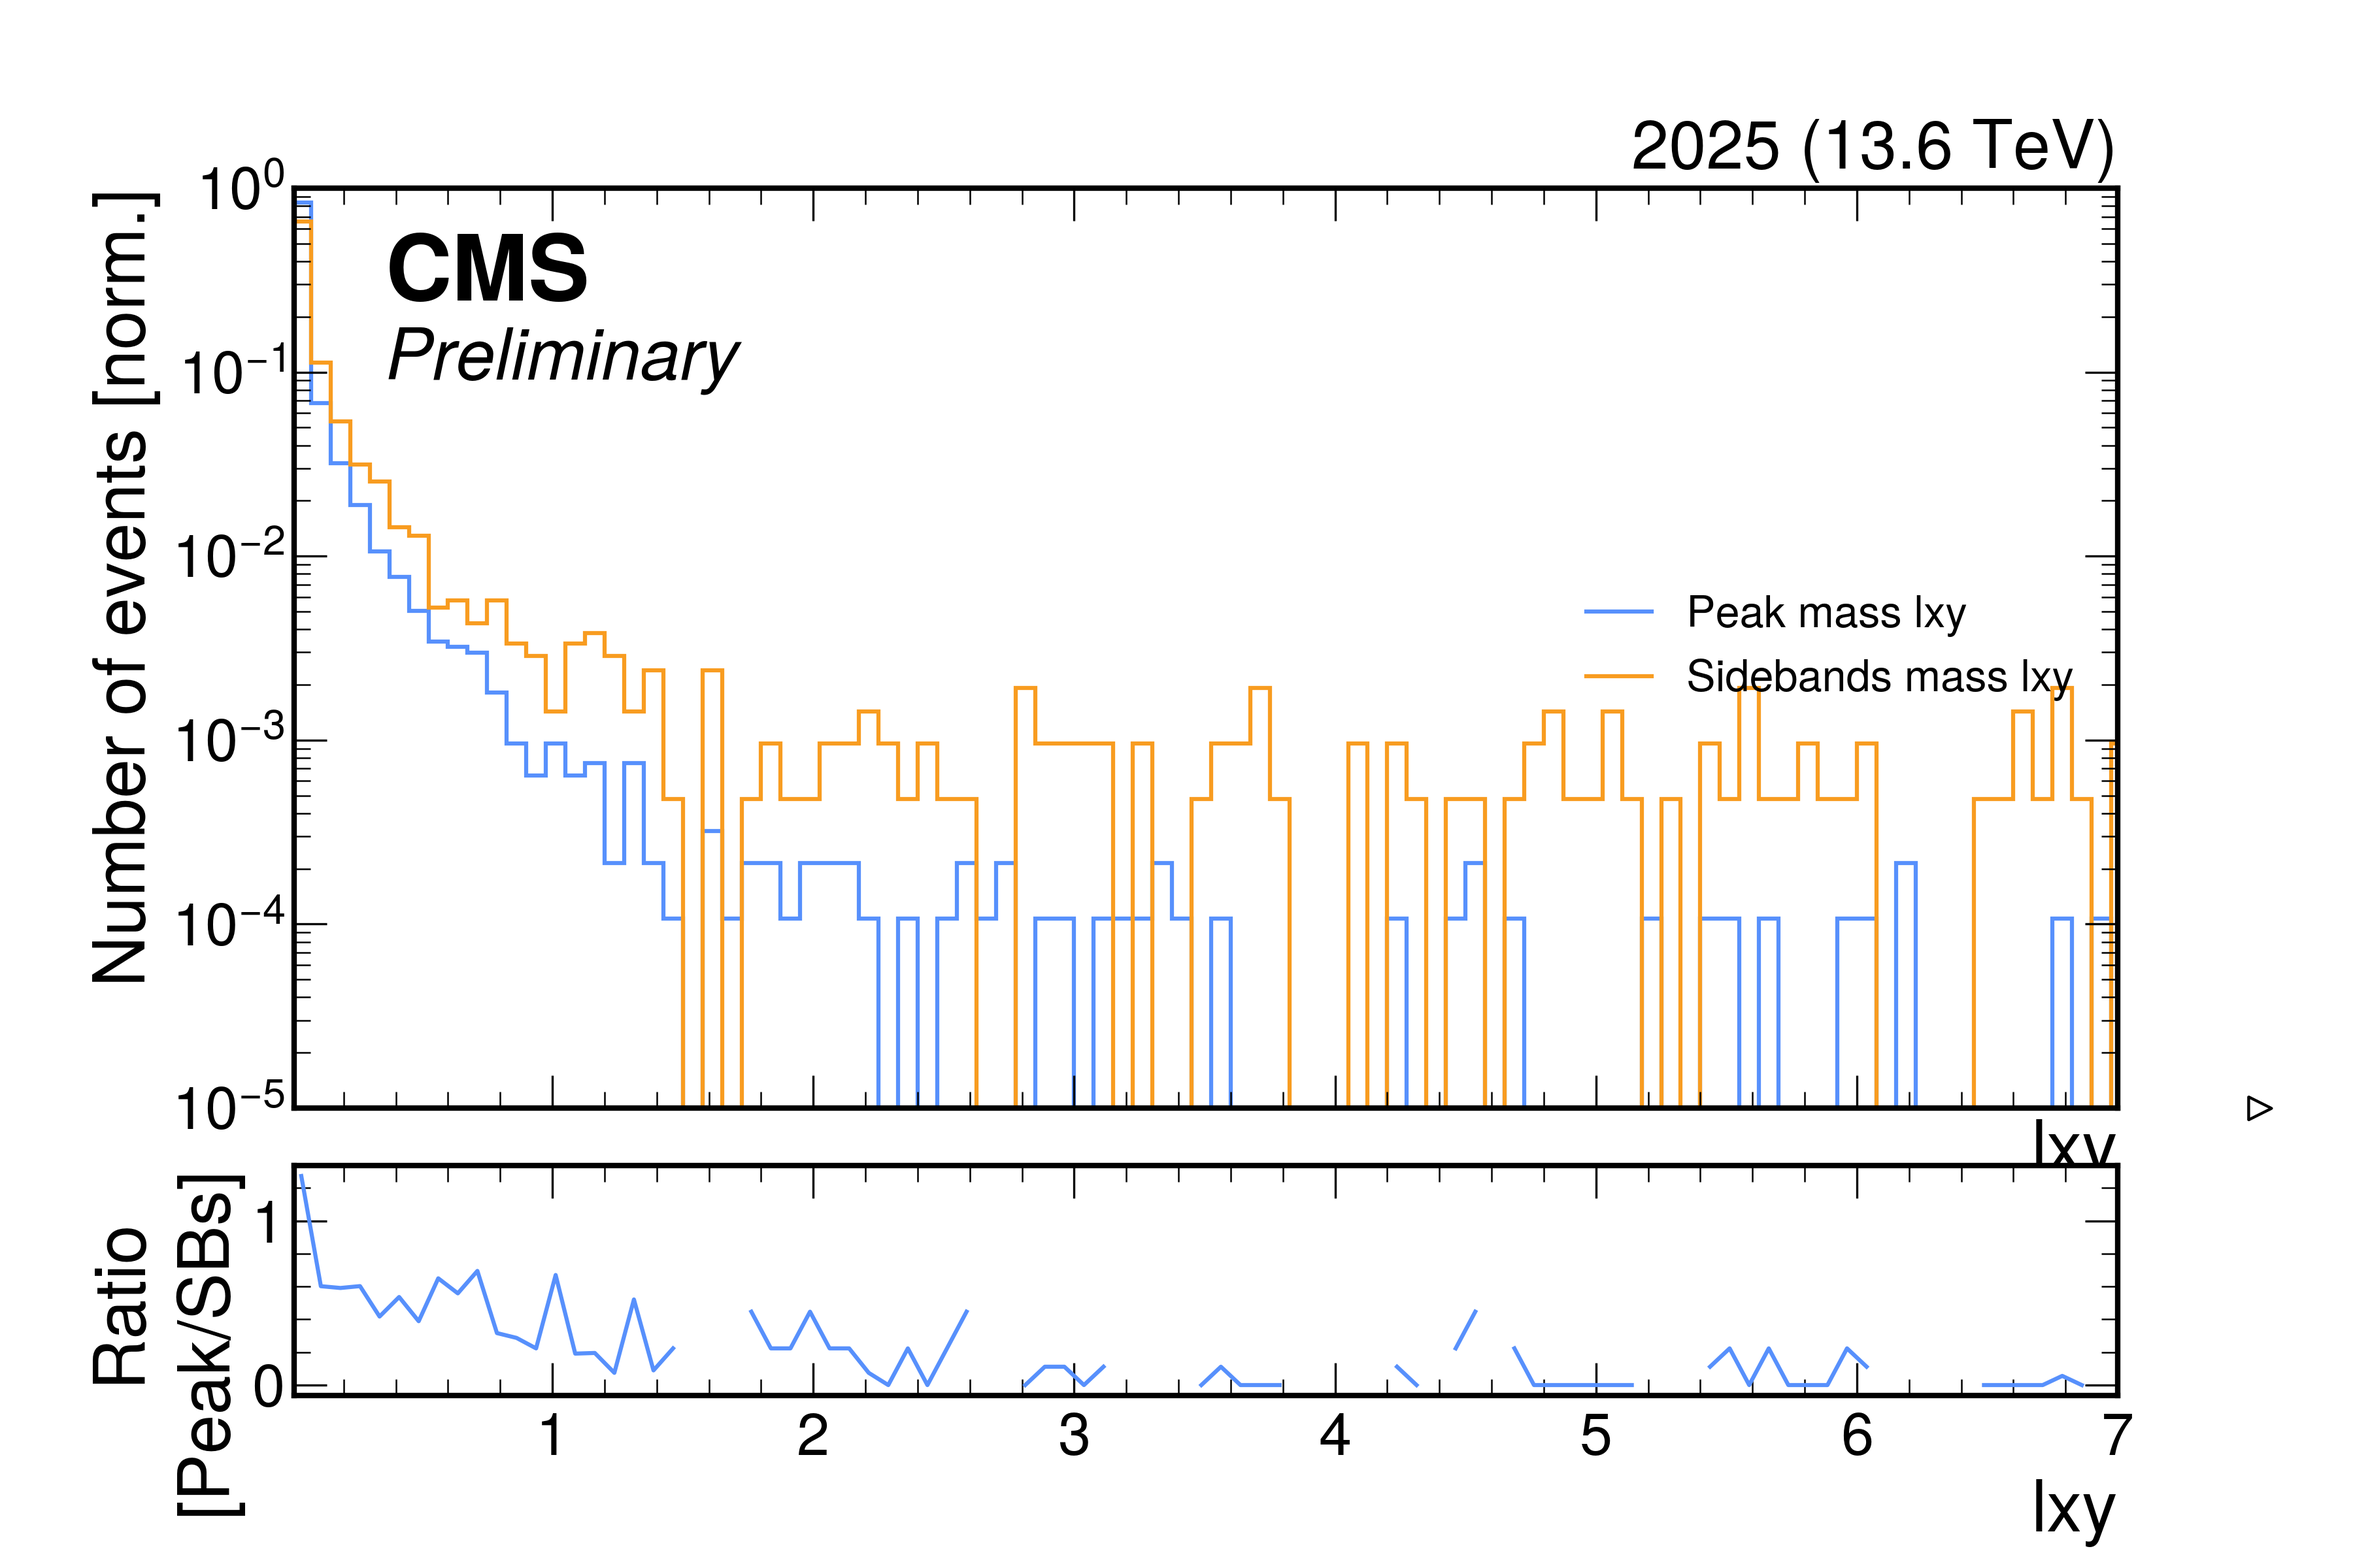
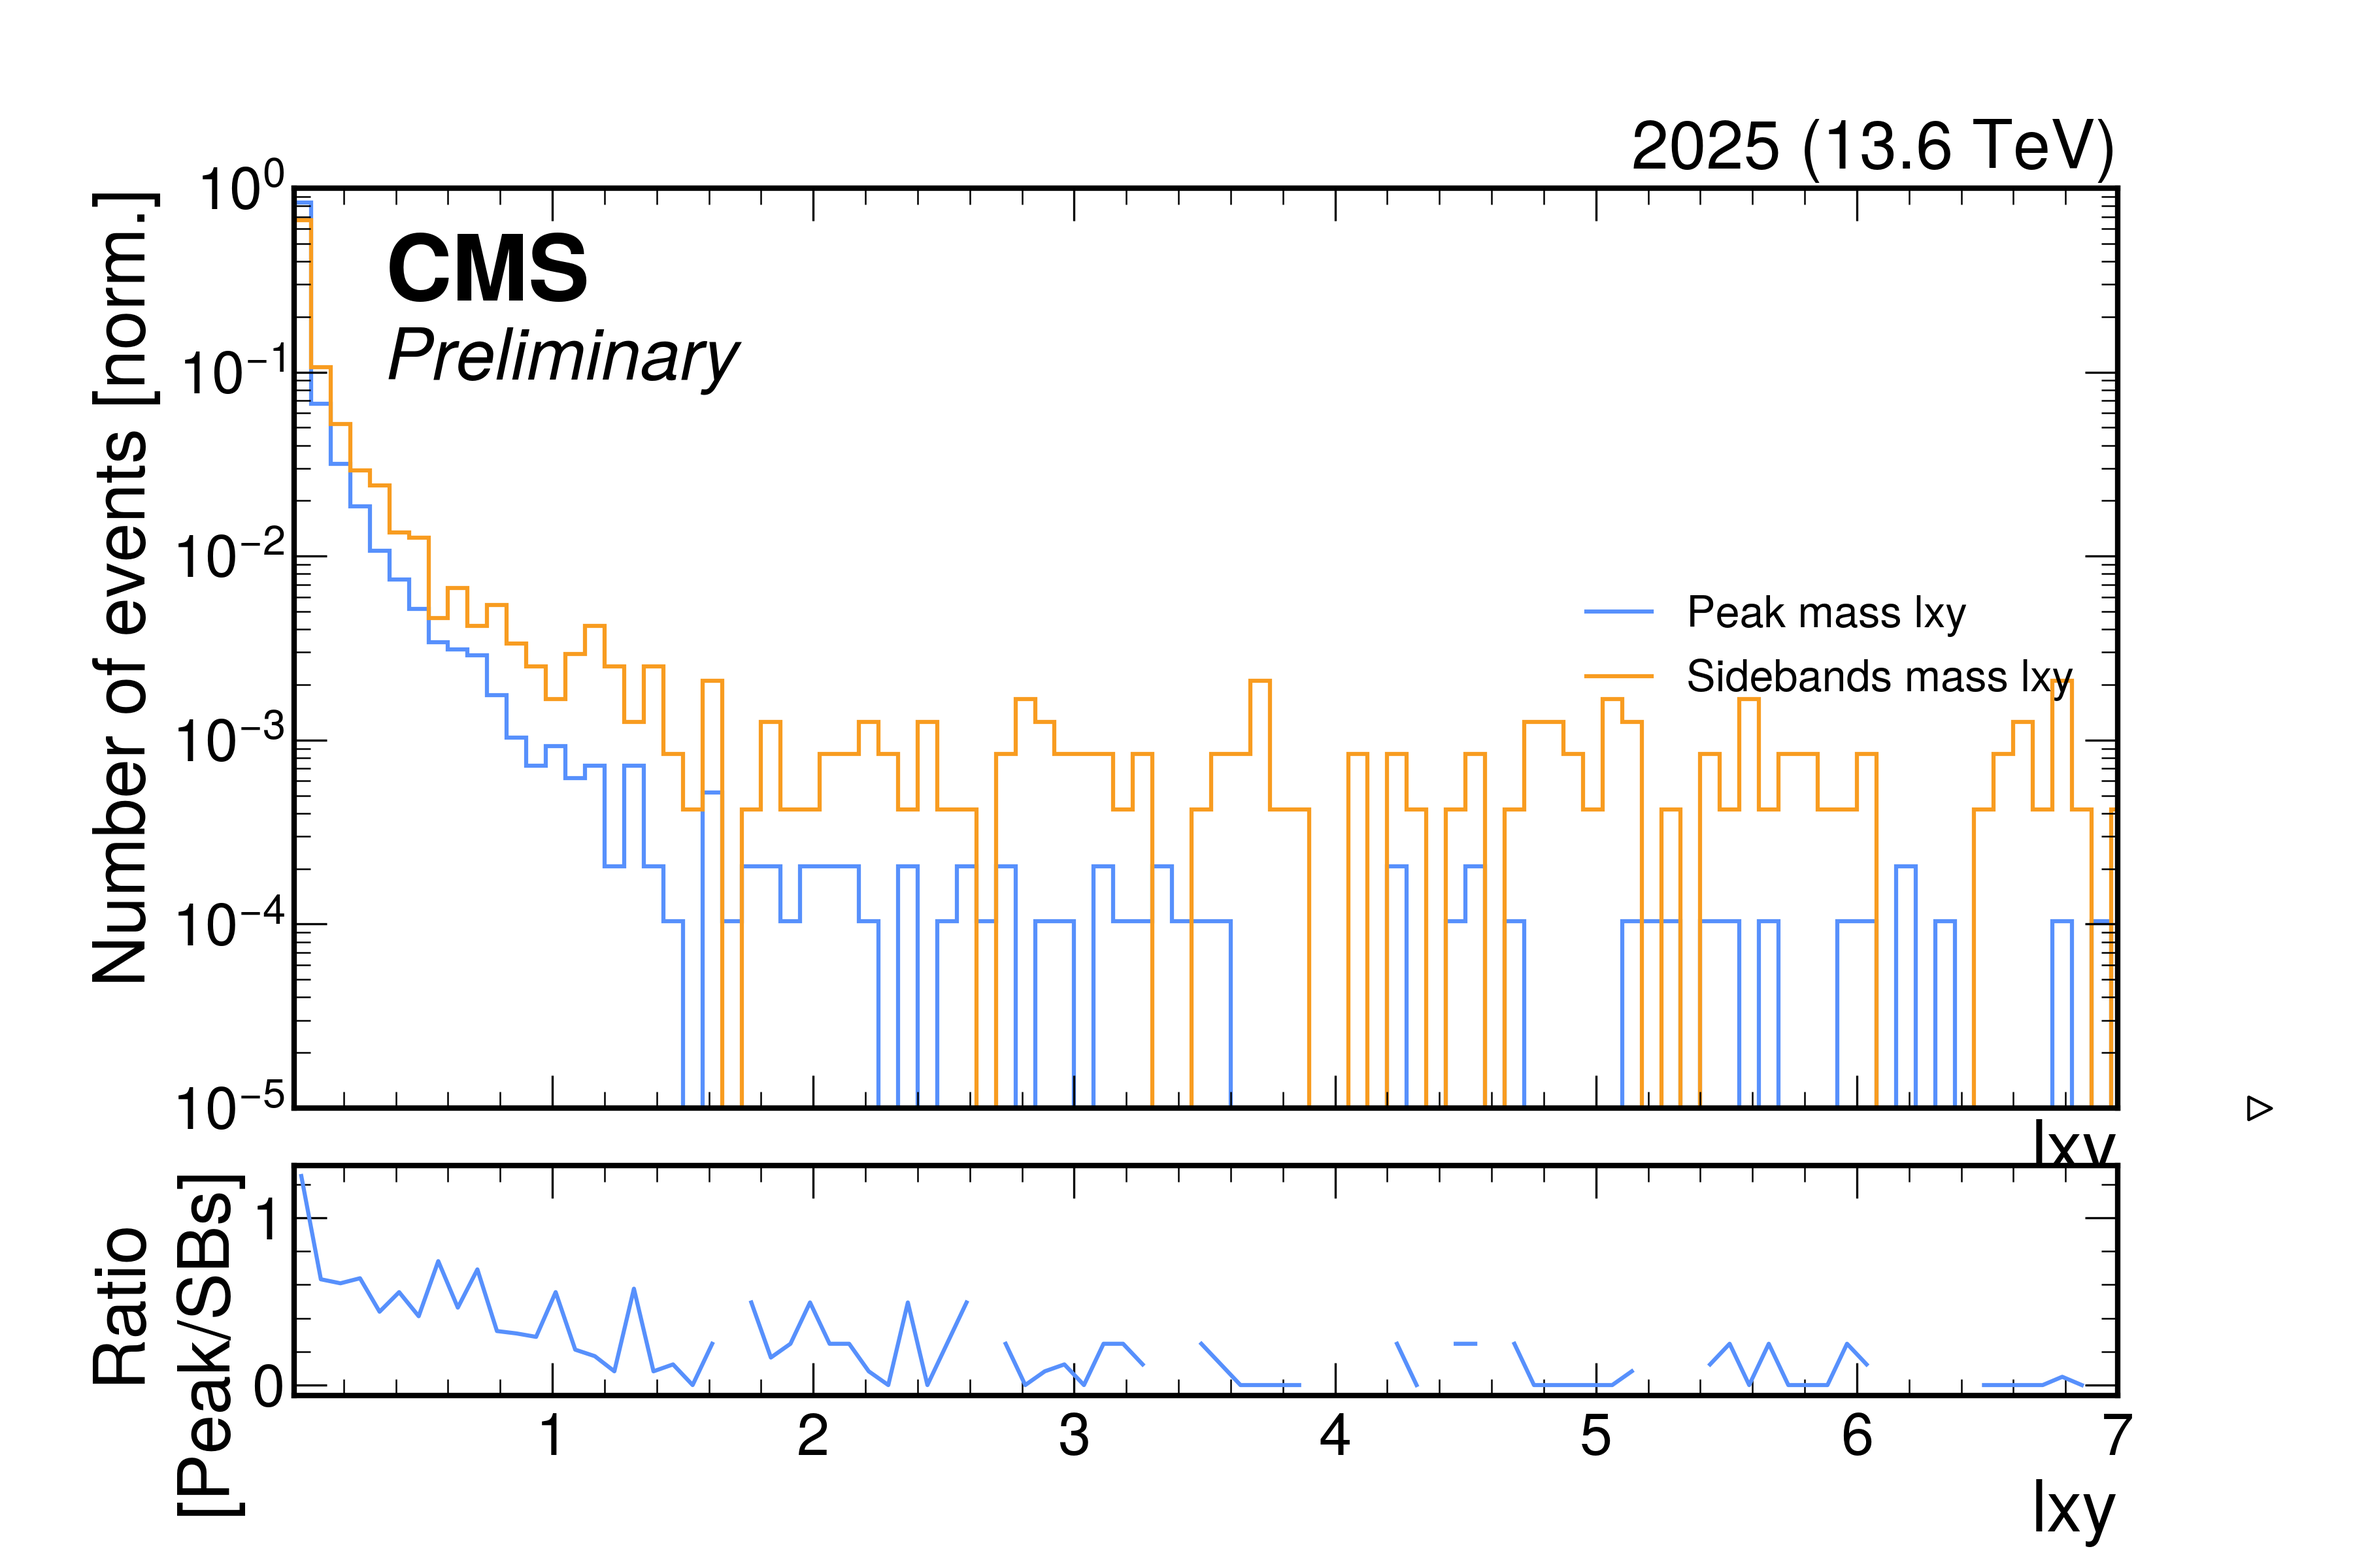
Likely broken: remove ALL filtering

diff --git a/make.py b/make.py
@@ -88,24 +88,25 @@ finally:
 
             ## Filter by trigger
             #TrgOR
+            '''
             mask = ak.zeros_like(events[TRIGGER[0]], dtype=bool)
             for trigger in TRIGGER:
                 mask = np.array(mask) | np.array(events[trigger])
             events = events[mask]
-            
+            '''
             print(f"> {len(events)} events survive the filter") # 500_206 events survive from Vtx TrgOR
             # 356_664 events survive NoVtx TrgNoVtx
             print("~\nFirst event: events[0]")
             print(events[0])
-            with open (outdir+"/large_pickles/events%sPickle.pkl"%(MUON), "wb") as pickleOut:
+            with open (outdir+"/large_pickles/events%sPickleUnfiltered.pkl"%(MUON), "wb") as pickleOut:
                 pickle.dump(events, pickleOut)
             pickleIndex += 1
     else: # if not rereading the original unfiltered file
-        with open (outdir+"/large_pickles/events%sPickle.pkl"%(MUON), "rb") as pickleIn:
+        with open (outdir+"/large_pickles/events%sPickleUnfiltered.pkl"%(MUON), "rb") as pickleIn:
             events = pickle.load(pickleIn)
         print(f"> Opened filtered sample with {len(events)} events") # 500_206 events Vtx TrgOR, # 356_664 events NoVtx TrgNoVtx
 ###################################################
-
+'''
 for branch in events.fields:
     print(f"{branch}:")
     try:
@@ -179,7 +180,7 @@ has_neg = ak.any(charges < 0, axis=1)
 keep_mask = has_pos & has_neg
 events = events[keep_mask]
 print(f"> Events with at least one pair of opposite charges: {len(events)}") 
-
+'''
 # print(events["ScoutingMuon%s_charge"%(MUON)])
 # print(events["ScoutingMuon%s_trk_hitPattern_hitCount"%(MUON)])
 # print(events["ScoutingMuon%s_trk_chi2"%(MUON)])
